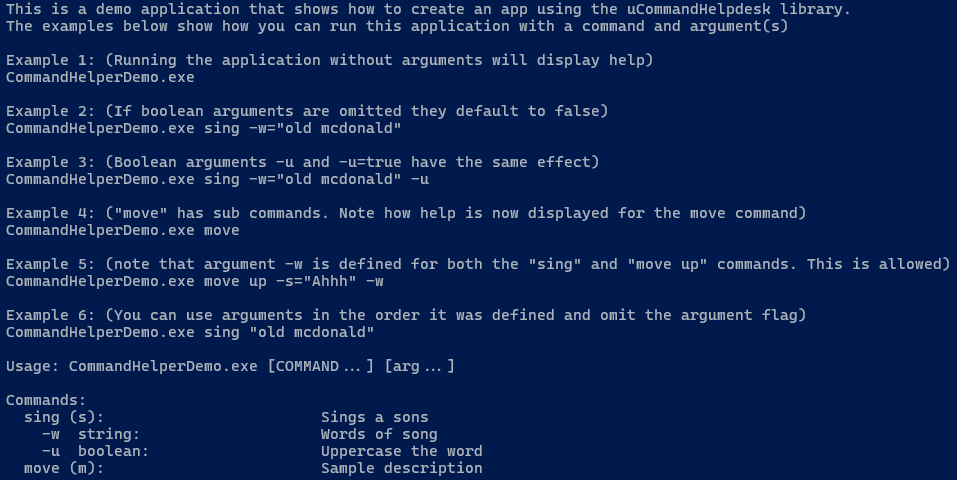
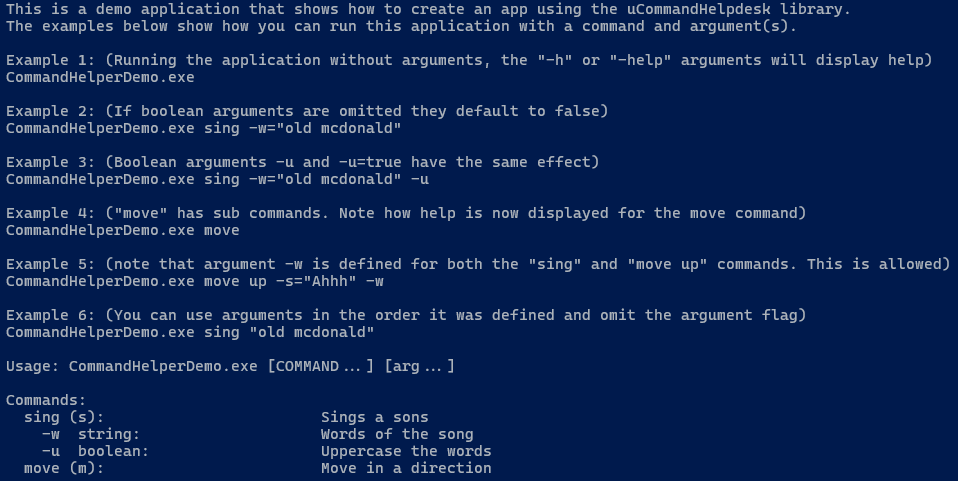
readme and demo app spelling improvements

diff --git a/README.md b/README.md
@@ -57,7 +57,7 @@ The sample code above will create a list_command.pas in the "myapp\src" director
   lAppCommand.commands.add(TListCommand.Create);
 ```
 
-You can add an application description with the appDescription property. See example below:
+You can add an application description by assigning a description to the TAppCommand instance:
 
 ```
   lAppCommand.description := 'Sample app description';
